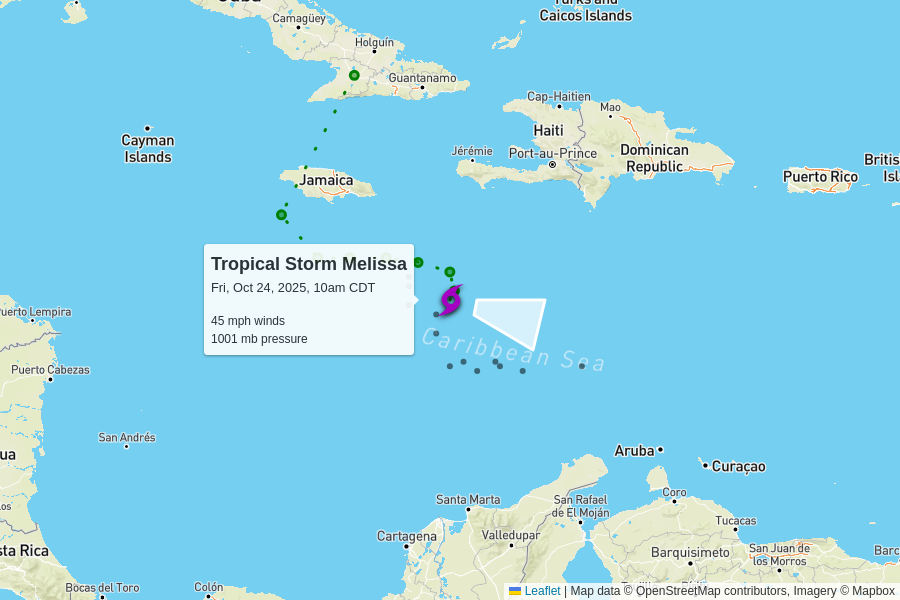
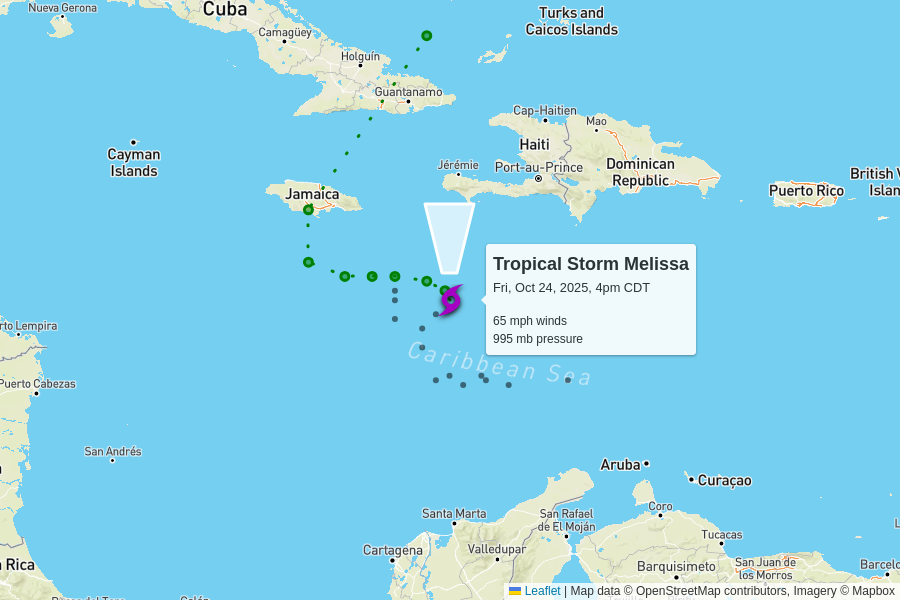
automatic update

diff --git a/docs/index.html b/docs/index.html
@@ -102,7 +102,7 @@
         <td colspan="6" class="storm category-0" >
           <h2>
             Tropical Storm Melissa
-            <p class="updated">last updated <span data-time>2025-10-24T15:00:00.000Z</span></p>
+            <p class="updated">last updated <span data-time>2025-10-24T21:00:00.000Z</span></p>
           </h2>
         </td>
       </tr>
@@ -117,12 +117,12 @@
       </tr>
       <tr>
         <td class="spacer"></td>
-        <td>45 mph<br>0 mph since last update</td>
-        <td>1001 mb<br>0 mb since last update</td>
+        <td>65 mph<br>+20 mph since last update</td>
+        <td>995 mb<br>-6 mb since last update</td>
         <td>
-          2 mph to the east-southeast
+          2 mph to the north
           <br/>
-          <span style="display: inline-block; font-size: 1.5em; transform: rotate(105deg);">↑</span>
+          <span style="display: inline-block; font-size: 1.5em; transform: rotate(360deg);">↑</span>
         </td>
         <td><a href="https://raw.githubusercontent.com/mgwalker/atlantic-hurricanes/main/data/csv/AL132025.csv">AL132025.csv</a></td>
         <td><a href="https://www.nhc.noaa.gov/archive/2025/MELISSA.shtml?">NHC advisories</a></td>
